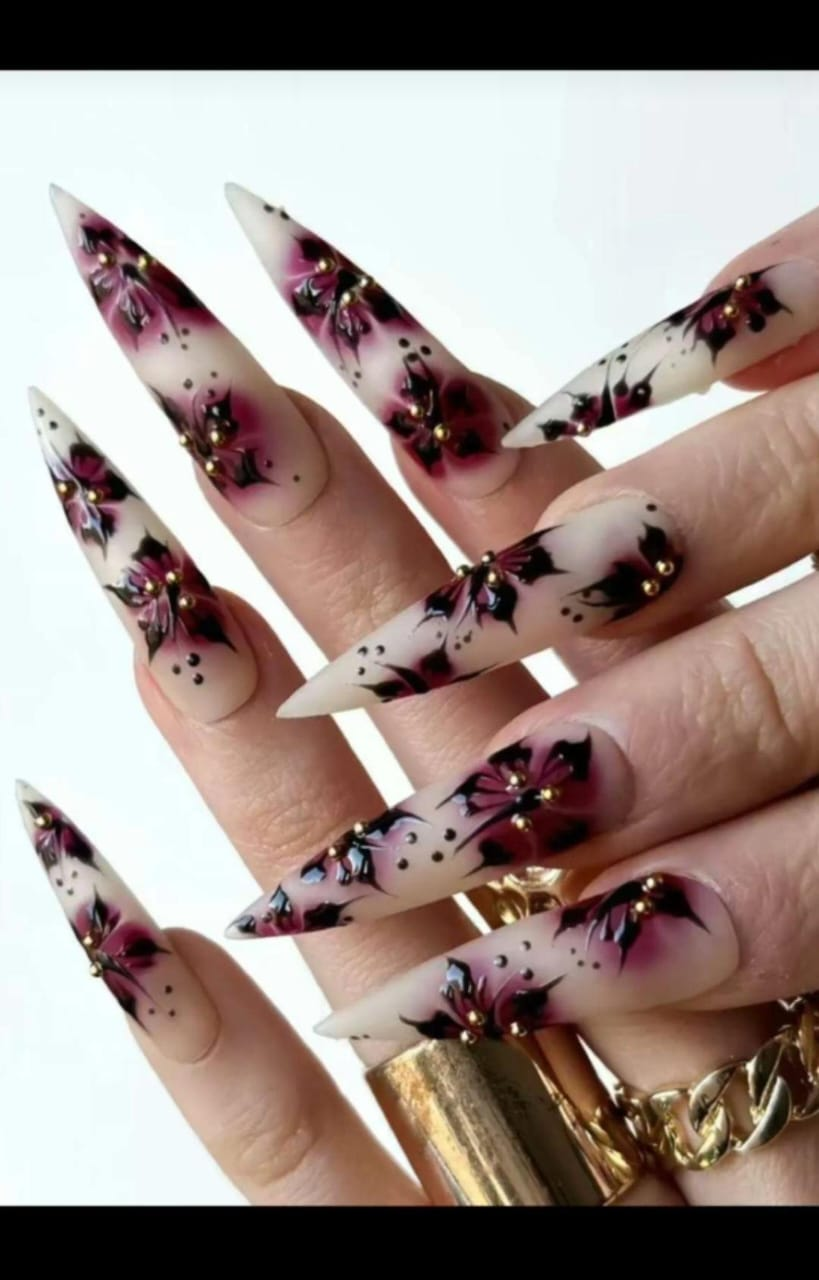
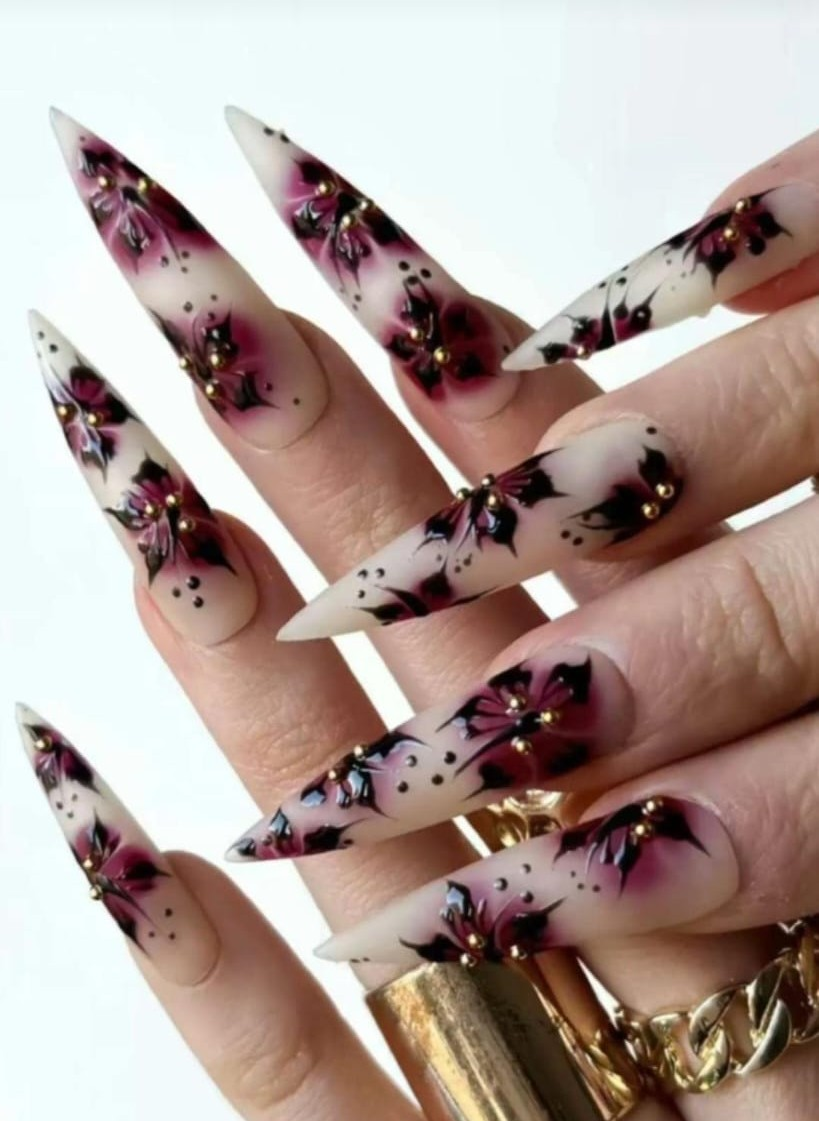
fix: crop black bars from nail images, add Haatso-Atomic directions, fix iOS aspect-ratio

diff --git a/index.html b/index.html
@@ -309,7 +309,7 @@
         <h2>Find us at Haatso Junction</h2>
         <p style="color:var(--ink-soft); margin-top:8px;">
           <strong>Address:</strong> Haatso Supermarket Junction, Accra<br>
-          <strong>Directions:</strong> [PLACEHOLDER: Add landmark directions, e.g. floor/shop colour/landmark beside Haatso Supermarket.]
+          <strong>Directions:</strong> Glamorous Nails is located at Haatso Supermarket Junction. If you're coming from the Haatso-Atomic Road, head towards Haatso Supermarket Junction and look for our studio within the junction area behind Gen Z check check. We're easily accessible by public transport and ride-hailing services.
         </p>
         <table class="hours-table" aria-label="Opening hours">
           <tbody>

diff --git a/contact.html b/contact.html
@@ -84,7 +84,7 @@
       <div class="stack-lg">
         <div>
           <h2 data-gn="contact.location">Haatso Supermarket Junction</h2>
-          <p style="color:var(--ink-soft); margin-top:6px;">[PLACEHOLDER: Add landmark directions beside Haatso Supermarket.]</p>
+          <p style="color:var(--ink-soft); margin-top:6px;">Glamorous Nails is located at Haatso Supermarket Junction. If you're coming from the Haatso-Atomic Road, head towards Haatso Supermarket Junction and look for our studio within the junction area behind Gen Z check check. We're easily accessible by public transport and ride-hailing services.</p>
         </div>
         <table class="hours-table" aria-label="Opening hours">
           <tbody>

diff --git a/css/styles.css b/css/styles.css
@@ -1157,6 +1157,7 @@ img.ph {
 }
 .recent-work-grid img {
   width: 100%;
+  height: auto;
   aspect-ratio: 4 / 3;
   object-fit: cover;
   border-radius: var(--radius-md);
